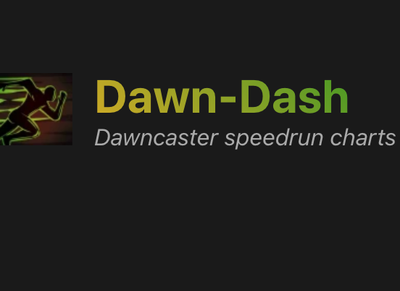
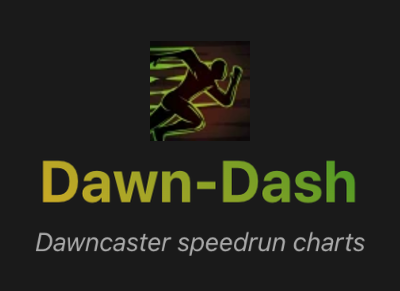
Updated og-image and readme

Changed region(s): [[0.09, 0.1546, 0.99, 0.7113], [0.09, 0.7732, 0.93, 0.8969], [0.0, 0.2474, 0.18, 0.4948]]

diff --git a/README.md b/README.md
@@ -1,12 +1,14 @@
 # 🏃♂ Dawn-Dash 💨
 
-A speedrun visualization tool for the mobile RPG: [Dawncaster](https://dawncaster.wanderlost.games/).
+An open-source speedrun visualization tool for the mobile RPG: [Dawncaster](https://dawncaster.wanderlost.games/).
 
-Generates charts of speedrun records and progressions, for all modes and difficulties of the game.
+- 📉 Speedrun charts of record-breaking runs and player progressions, for all modes and difficulties of the game.
+- 🔍 Various filters and sorting options to focus on the runs you want to see.
+- 🔗 Only runs linked to a **Dawncaster Discord account** are visible. Your run must be submitted to [Blightbane](https://blightbane.io/) via the official [Dawncaster Discord](https://discord.gg/pfeMG9c) to be shown here. Anonymous runs are excluded for now.
 
-Only runs linked to a **Dawncaster Discord account** are visible. Your run must be submitted to [Blightbane](https://blightbane.io/) via the official [Dawncaster Discord](https://discord.gg/pfeMG9c) to be shown here.
+👀 So did **your** super-fast run make it on to the list? Go find out at:
 
-So... Did **your** run make it on to the list? Go find out at [Dawn-Dash](https://dawn-dash.com/)! 👀
+[![Dawn-Dash](./public/og-image.png "Click to visit Dawn-Dash")](https://dawn-dash.com/)
 
 
 ## 🤔 Ideas and feedback
